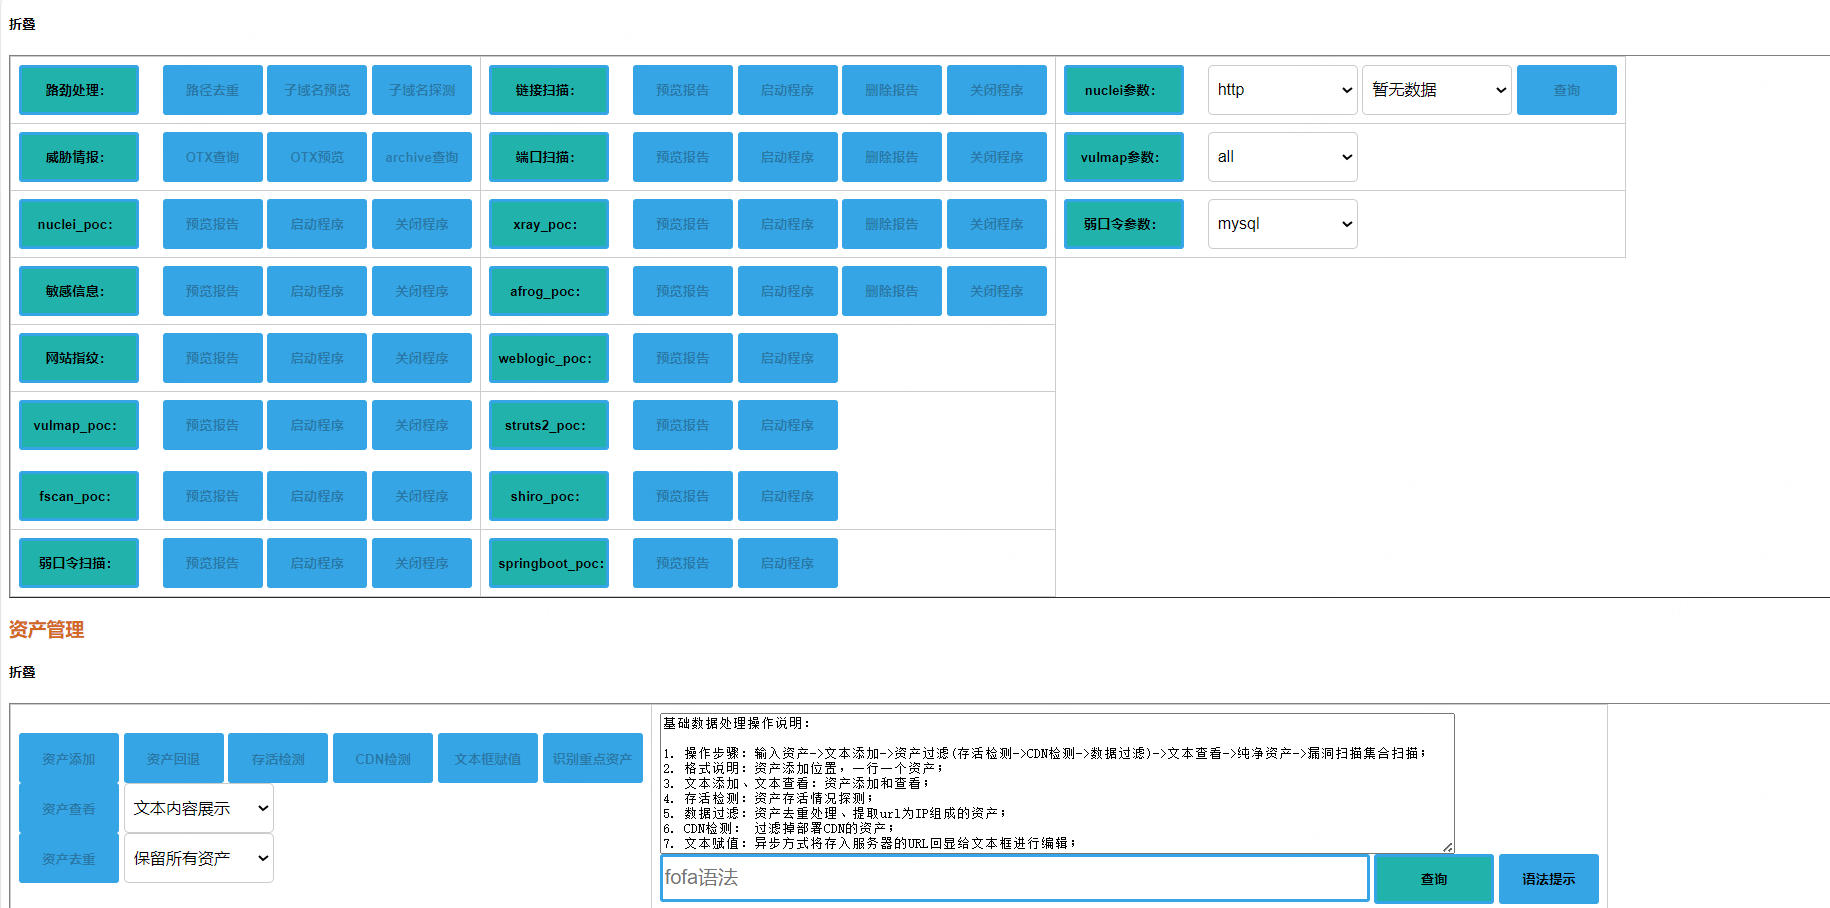
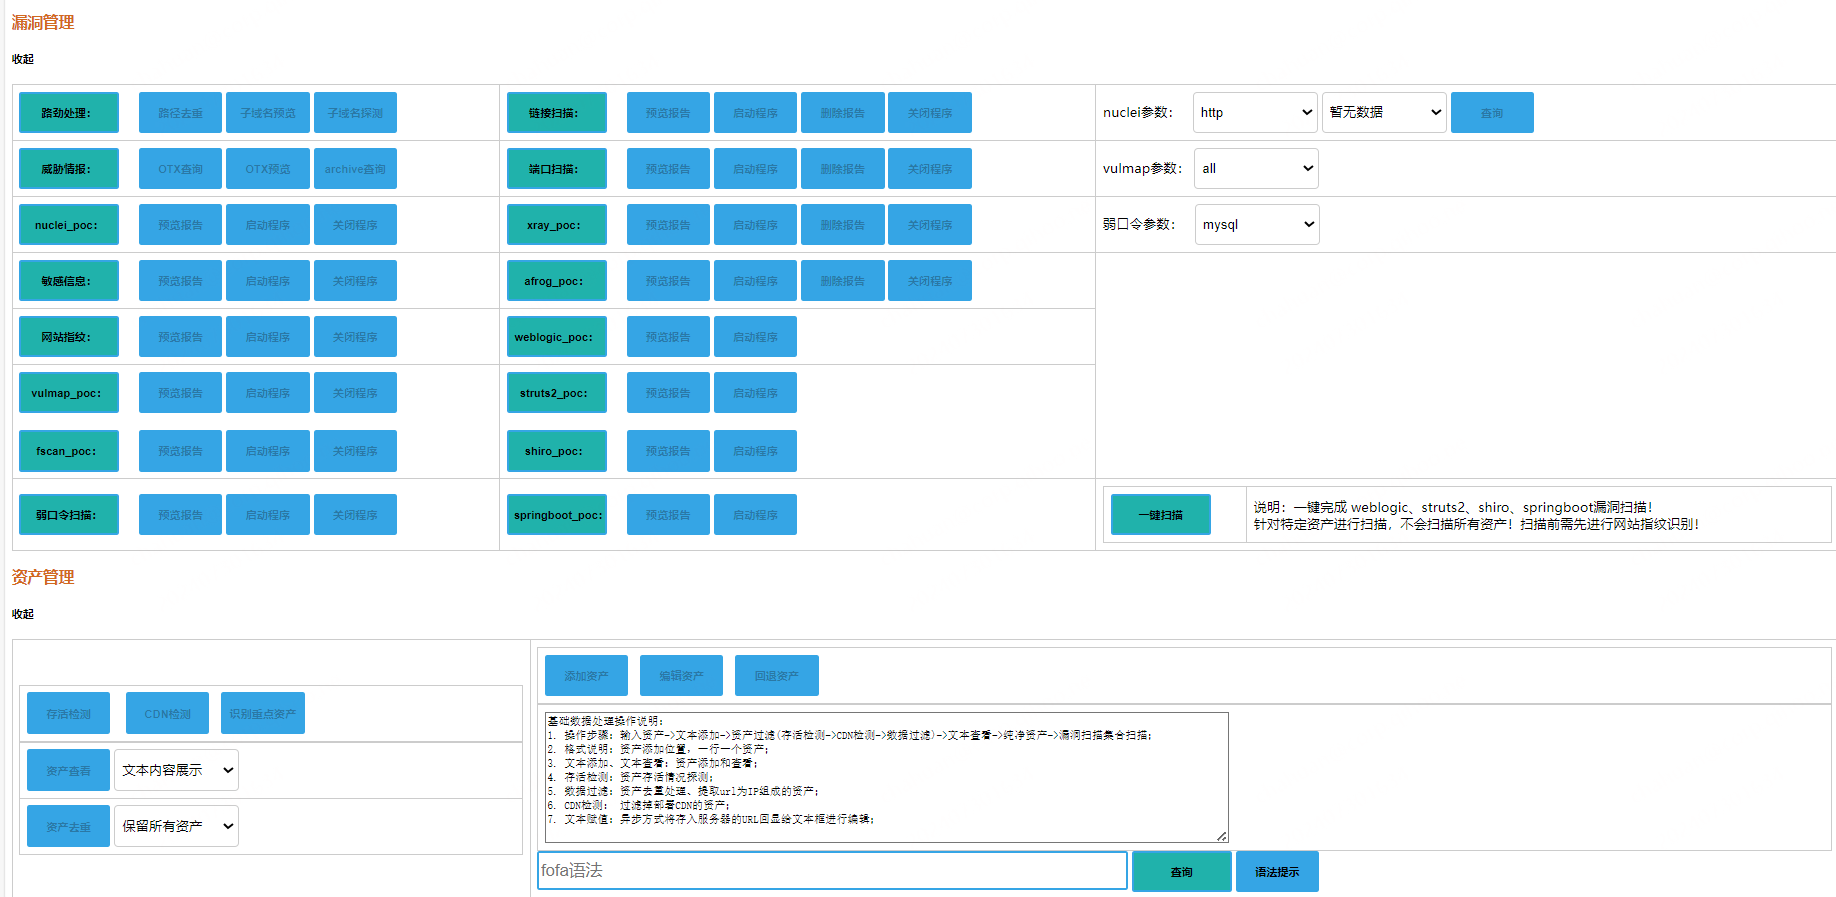
页面调整

diff --git a/templates/index.html b/templates/index.html
@@ -452,7 +452,7 @@
 						<input type="button" id="button43" value="关闭程序" onclick="killafrogprocessfunc()" disabled>
 					</td>
 				</tr>
-				
+
 				<tr>
 					<td>
 						<input type="submit" value="网站指纹：">&nbsp;&nbsp;&nbsp;&nbsp;
@@ -512,11 +512,12 @@
 						<table>
 							<tr>
 								<td><input type="submit" value="一键扫描" onclick="one_click_scan_func()"></td>
-								<td>说明：一键完成 weblogic、struts2、shiro、springboot漏洞扫描！ <br> 针对特定资产进行扫描，不会扫描所有资产！扫描前需先进行网站指纹识别！</td>
-								
+								<td>说明：一键完成 weblogic、struts2、shiro、springboot漏洞扫描！ <br>
+									针对特定资产进行扫描，不会扫描所有资产！扫描前需先进行网站指纹识别！</td>
+
 							</tr>
 						</table>
-						
+
 						<!-- <span>&nbsp;&nbsp;&nbsp;&nbsp;说明：一键完成 weblogic、struts2、shiro、springboot漏洞扫描， <br> 针对特定资产进行扫描，不会扫描所有资产！扫描前需先进行网站指纹识别！</span><br>
 						<input type="submit" value="一键扫描" onclick="one_click_scan_func()"> -->
 					</td>
@@ -530,43 +531,75 @@
 				<table border="1">
 					<tr>
 						<td>
-							<!-- <input type="button" id="button3" value="资产添加" onclick="sendtextareadata()" disabled> -->
-							<input type="button" id="button25" value="资产回退" onclick="assetsbackspacefunc()" disabled>
-							<input type="button" id="button20" class="hover-color" name="commit" value="存活检测"
-								onclick="filterstatuscodefunc()" disabled>
-							<input type="button" id="button24" value="CDN检测" onclick="filtercdndatafunc()" disabled>
-							<input type="button" id="button2" value="文本框赋值" onclick="targeturlcopytextareafunc()"
-								disabled>
-							<input type="button" id="button51" value="识别重点资产" onclick="key_data_tiqu_func()"
-								disabled><br>
-							<input type="button" id="button17" value="资产查看" onclick="textinfoshowfunc()" disabled>
+							<table border="1">
+								<tr>
+									<td>
+										<input type="button" id="button20" class="hover-color" name="commit"
+											value="存活检测" onclick="filterstatuscodefunc()" disabled> &nbsp;&nbsp;
+										<input type="button" id="button24" value="CDN检测" onclick="filtercdndatafunc()"
+											disabled>&nbsp;&nbsp;
+										<input type="button" id="button51" value="识别重点资产" onclick="key_data_tiqu_func()"
+											disabled>&nbsp;&nbsp;
+									</td>
+								</tr>
+							</table>
 
-							<select id="opbyid3">
-								<option>文本内容展示</option>
-							</select>
-							&nbsp;&nbsp;<span id="span1"></span>
-							<br>
+							<table border="1">
+								<tr>
+									<td>
+										<input type="button" id="button17" value="资产查看" onclick="textinfoshowfunc()"
+											disabled>
+										<select id="opbyid3">
+											<option>文本内容展示</option>
+										</select>
+										&nbsp;&nbsp;<span id="span1"></span>
+										
+									</td>
+								</tr>
+								<tr>
+									<td>
+										<input type="button" id="button19" class="hover-color" name="commit"
+											value="资产去重" onclick="filedeweightingfunc()" disabled>
+										<select name="fileqingxiname">
+											<option value="2">保留所有资产</option>
+											<option value="1">保留IP资产(http://1.1.1.1:80/1.txt)</option>
+										</select>
+									</td>
+								</tr>
+							</table>
 
-							<input type="button" id="button19" class="hover-color" name="commit" value="资产去重"
-								onclick="filedeweightingfunc()" disabled>
-							<select name="fileqingxiname">
-								<option value="2">保留所有资产</option>
-								<option value="1">保留IP资产(http://1.1.1.1:80/1.txt)</option>
-							</select>
 
 						</td>
 						<td>
-							<textarea rows="9" cols="110" id="myTextarea">基础数据处理操作说明：
+							<table border="1">
+								<tr>
+									<td>
+										<input type="button" id="button3" value="添加资产" onclick="sendtextareadata()"
+											disabled>&nbsp;&nbsp;
+										<input type="button" id="button2" value="编辑资产"
+											onclick="targeturlcopytextareafunc()" disabled>&nbsp;&nbsp;
+										<input type="button" id="button25" value="回退资产" onclick="assetsbackspacefunc()"
+											disabled>
 
+									</td>
+								</tr>
+							</table>
+							<table border="1">
+								<tr>
+									<td>
+										<textarea rows="9" cols="110" id="myTextarea">
+基础数据处理操作说明：
 1. 操作步骤：输入资产->文本添加->资产过滤(存活检测->CDN检测->数据过滤)->文本查看->纯净资产->漏洞扫描集合扫描；
 2. 格式说明：资产添加位置，一行一个资产；
 3. 文本添加、文本查看：资产添加和查看；
 4. 存活检测：资产存活情况探测；
 5. 数据过滤：资产去重处理、提取url为IP组成的资产；
 6. CDN检测： 过滤掉部署CDN的资产；
-7. 文本赋值：异步方式将存入服务器的URL回显给文本框进行编辑；</textarea>&nbsp;&nbsp;&nbsp;&nbsp;&nbsp;&nbsp;&nbsp;&nbsp;
-							<input type="button" id="button3" value="资产添加" onclick="sendtextareadata()"
-								disabled><br><br>
+7. 文本赋值：异步方式将存入服务器的URL回显给文本框进行编辑；
+										</textarea>
+									</td>
+								</tr>
+							</table>
 							<input type="text" placeholder="fofa语法" id="inputfofaid" />
 							<input type="submit" value="查询" onclick="fofa_search_assets_func()">
 							<input type="button" value="语法提示" onclick="fofayufa()">

diff --git a/scan_main_web.py b/scan_main_web.py
@@ -1842,7 +1842,9 @@ def one_click_scan():
     user = session.get('username')
     if str(user) == main_username:
 
-        
+        # 漏洞扫描器时间线更新
+        basic.vuln_scan_status_update('已完成一键漏洞扫描')
+
         # 从资产文件url.txt中根据规则分别提取出springboot、weblogic、struts2、shiro资产并写入对应的文件
         basic.asset_by_rule_handle()
         
